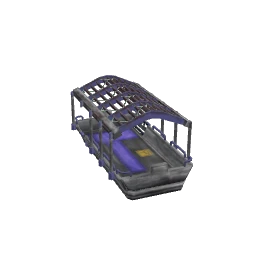
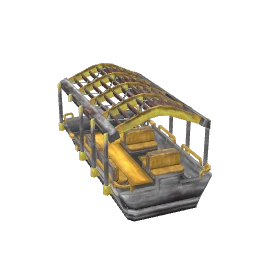
feat: pictures for teleporter pads, sconce lamps, power outlets and more trams and crates
Teleporter pads and sconce lamps now show a picture of what they look like.
Power outlets on things you built (plug strips, plugboards, batteries and the like) now show the device they belong to.
Each tram now has its own picture in its own colours, and the round car no longer stands in for the others.
Resource nodes the game places while you play, like the wood crates in the reactors and the essence pickups, now have pictures too.

Changed region(s): [[0.2188, 0.2188, 0.8438, 0.875]]

diff --git a/src/AbioticEditor.Web.Shared/Services/WorldThumbnails.Index.g.cs b/src/AbioticEditor.Web.Shared/Services/WorldThumbnails.Index.g.cs
@@ -7,11 +7,13 @@ public static partial class WorldThumbnails
     {
         ["buttons"] = new(StringComparer.Ordinal) { "Button_Generic_C", "Button_Keypad_C", "Button_Keypad_Tier1_C", "Button_Keypad_VOTV_C", "Button_Keypad_VOTV_Terminal_C", "Button_LightSwitch_C" },
         ["containers"] = new(StringComparer.Ordinal) { "Abiotic_PlayerCorpse_C", "Container_Aquarium_Large_C", "Container_KitchenCabinet_C", "Container_KitchenCounter_C", "Container_Locker_C", "Container_Locker_Security_C", "Container_Locker_VOTV_C", "Container_LootSpillBag_C", "Container_VOTV_Kitchen_Bedroom_Cabinet_Left_C", "Container_VOTV_TrashBinGreen_C", "Deployable_FishingTrap_T1_C", "Deployed_Armor_Stand_C", "Deployed_Armor_Stand_WoodF_C", "Deployed_AutoSalvager_C", "Deployed_Beehive_C", "Deployed_Bench_AmmoStation_C", "Deployed_Bench_CookingStation_C", "Deployed_ChemistryBench_C", "Deployed_Container_ArmoryLocker_C", "Deployed_Container_Chest_Vintage_C", "Deployed_Container_FilingCabinet_Huge_C", "Deployed_Container_FilingCabinet_Large_C", "Deployed_Container_FilingCabinet_Medium_C", "Deployed_Container_FilingCabinet_Small_C", "Deployed_Container_Medkit_C", "Deployed_Container_Stocking_C", "Deployed_Container_Toolbox_C", "Deployed_Container_Toolbox_Plant_C", "Deployed_Container_TrashCan_C", "Deployed_Container_TrashCan_Small_C", "Deployed_Container_WishingShelfStocking_C", "Deployed_CraftedChargingStation_C", "Deployed_CraftingBench_Default_C", "Deployed_CraftingBench_Repair_C", "Deployed_CraftingBench_Upgrade_C", "Deployed_Crate_HGatekeeper_C", "Deployed_Crate_HMusicBox_C", "Deployed_Crate_HOrnate_C", "Deployed_Crate_HSecurity_C", "Deployed_CubicleShelf_C", "Deployed_Desk_Fancy_01_C", "Deployed_DistillationBench_C", "Deployed_Freezer_C", "Deployed_Furniture_Cabinet_Fancy_01_C", "Deployed_Furniture_Cabinet_Vintage_C", "Deployed_Furniture_Desk_Executive_01_C", "Deployed_Furniture_Desk_Lab_01_C", "Deployed_Furniture_Desk_Lab_02_C", "Deployed_Furniture_Desk_Office_02_C", "Deployed_HazardCrate_C", "Deployed_ItemStand_ParentBP_C", "Deployed_ItemStand_WallMount_C", "Deployed_PestTrap_C", "Deployed_PetBed_Luxury_C", "Deployed_Refrigerator_C", "Deployed_StorageCrate_Charging_C", "Deployed_StorageCrate_Makeshift_C", "Deployed_StorageCrate_Makeshift_T2_C", "Deployed_StorageCrate_Makeshift_T3_C", "Deployed_StorageCrate_Makeshift_T4_C", "Deployed_StorageCrate_Void_C", "Deployed_Toilet_Makeshift_C", "Deployed_VOTV_BedsideTable_Brown_C", "Deployed_VOTV_Dresser_C", "Deployed_VOTV_MiniFridge_C", "Deployed_WishingShelf_C", "GATE_ChargingStation_C", "GardenPlot_Large_C", "Stove_Deployable_2Spots_C", "Stove_Deployable_Oven_C", "Stove_Industrial_8Spots_C", "Stove_Oven_VOTV_Microwave_C", "Trader_LabDispenser_C" },
+        ["deployables"] = new(StringComparer.Ordinal) { "Deployed_Battery_T1_C", "Deployed_Battery_T2_C", "Deployed_Battery_T3_C", "Deployed_CableReroute_C", "Deployed_ExerciseBike_C", "Deployed_Lamp_Sconce_C", "Deployed_Lamp_Sconce_XMAS_C", "Deployed_LaserPowerConverter_C", "Deployed_PlugStrip_C", "Deployed_Plugboard_C", "Deployed_TeleporterPad_C" },
         ["destructibles"] = new(StringComparer.Ordinal) { "Destructible_BookCartStack_C", "Destructible_CafeteriaDoor_C", "Destructible_CeilingTile_C", "Destructible_ContainmentShield_C", "Destructible_Fracture_MageEye_C", "Destructible_SecurityContainerDoor_C", "Destructible_SyncrotronHole_C", "Webbing_BP_C", "XRayField_BP_C" },
         ["doors"] = new(StringComparer.Ordinal) { "BlastDoor_C", "BlastDoor_ORD_Large_C", "BlastDoor_ORD_Small_C", "BlastDoor_OfferingBox_C", "Hatch_PickupTailgate_BP_C", "SecurityDoor_Animated_C", "SecurityDoor_C", "SecurityDoor_Shutters_C", "SecurityDoor_Small_C", "SimpleDoor_Bathroom_C", "SimpleDoor_ParentBP_C", "SimpleHatch_BP_C", "SlidingCellDoor_BP_C", "SlidingDoor_BP_C", "SlidingDoor_VOTV_ASO_C", "SlidingStorageDoor_BP_C", "SlidingWindow_Vertical_BP_C", "TramStationDoor_C", "VacDoor_BP_C" },
         ["elevators"] = new(StringComparer.Ordinal) { "Elevator_Office_BP_C", "Elevator_ParentBP_C" },
         ["power-sockets"] = new(StringComparer.Ordinal) { "PowerSocket_MgtCore_C", "PowerSocket_ORDER_C", "PowerSocket_ParentBP_C", "PowerSocket_VWinter_C" },
-        ["resource-nodes"] = new(StringComparer.Ordinal) { "Destructible_Vent_C", "ResourceNode_AlienBeehive_C", "ResourceNode_AnalysisMachine_C", "ResourceNode_AnalysisMachine_Gem_C", "ResourceNode_AnalysisMachine_Greyeb_C", "ResourceNode_AnalysisMachine_Transcendium_C", "ResourceNode_Barrel_C", "ResourceNode_BatteryCharger_C", "ResourceNode_CementPallet_C", "ResourceNode_DesktopMonitor_C", "ResourceNode_DesktopPC_C", "ResourceNode_DesktopPC_Note_C", "ResourceNode_GenericCrate_C", "ResourceNode_GlassPane_C", "ResourceNode_GlassPane_Cinematic_C", "ResourceNode_GymEquipment_Barbell_C", "ResourceNode_GymEquipment_Bench_C", "ResourceNode_GymEquipment_Bike_C", "ResourceNode_GymEquipment_Dumbbell_C", "ResourceNode_HighTechMonitor_C", "ResourceNode_HydroPipes_C", "ResourceNode_Hydropanel_C", "ResourceNode_MetalVent_C", "ResourceNode_MilitaryRadio_C", "ResourceNode_MineCrate_C", "ResourceNode_OfficePhotocopier_C", "ResourceNode_OfficePrinter_C", "ResourceNode_Pipes_C", "ResourceNode_ReceptorHousing_C", "ResourceNode_SpaceLettuce_C", "ResourceNode_Transformer_C", "ResourceNode_Turbine_C", "ResourceNode_WoodCrate_C", "ResourceNode_WoodCrate_Defense_C", "ResourceNode_WoodCrate_MF_C", "ResourceNode_WoodCrate_Manufacturing_C", "ResourceNode_WoodCrate_Office_C", "ResourceNode_WoodCrate_OrderAmmo_C", "ResourceNode_WoodCrate_Security_C", "ResourceNode_WoodenPallet_C", "Resource_HazmatSuit_C", "Resource_MicroNode_Acid_C", "Resource_MicroNode_Ammo_308_C", "Resource_MicroNode_Ammo_556_C", "Resource_MicroNode_Ammo_9mm_C", "Resource_MicroNode_Ammo_Magnum_C", "Resource_MicroNode_Ammo_Shotgun_C", "Resource_MicroNode_AntiGravCube_C", "Resource_MicroNode_Anvil_C", "Resource_MicroNode_Apple_C", "Resource_MicroNode_AxleGrease_C", "Resource_MicroNode_Baton_C", "Resource_MicroNode_Beaker_C", "Resource_MicroNode_Binders_C", "Resource_MicroNode_BlacksmithingGloves_C", "Resource_MicroNode_Bleach_C", "Resource_MicroNode_BookStack1_C", "Resource_MicroNode_BoxOfScrews_C", "Resource_MicroNode_Briefcase_C", "Resource_MicroNode_Bucket_Metal_C", "Resource_MicroNode_Bucket_Plastic_C", "Resource_MicroNode_Calculator_C", "Resource_MicroNode_CanOfFood_C", "Resource_MicroNode_CementBag_C", "Resource_MicroNode_Chains_C", "Resource_MicroNode_ChefHat_C", "Resource_MicroNode_ClothscrapAprons_C", "Resource_MicroNode_ContGloves_C", "Resource_MicroNode_CookingPot_C", "Resource_MicroNode_Crowbar_C", "Resource_MicroNode_DeskLeg_C", "Resource_MicroNode_DeskPhone_C", "Resource_MicroNode_DoubleBarrelShotgun_C", "Resource_MicroNode_DuctTape_C", "Resource_MicroNode_Enethiol_C", "Resource_MicroNode_FireExtinguisher_C", "Resource_MicroNode_Flashlight_C", "Resource_MicroNode_FloppyHat_C", "Resource_MicroNode_FryingPan_C", "Resource_MicroNode_GasMask_C", "Resource_MicroNode_GeigerCounter_C", "Resource_MicroNode_GigaGlue_C", "Resource_MicroNode_Hammer_C", "Resource_MicroNode_HardHat_C", "Resource_MicroNode_HighVisVest_C", "Resource_MicroNode_Hose_C", "Resource_MicroNode_HydroplantHelm_C", "Resource_MicroNode_IS_0003_C", "Resource_MicroNode_IS_0010_C", "Resource_MicroNode_IceCream_C", "Resource_MicroNode_IodineTablets_C", "Resource_MicroNode_JesterHat_C", "Resource_MicroNode_KarateHelmet_C", "Resource_MicroNode_Keyboard_C", "Resource_MicroNode_Knife_C", "Resource_MicroNode_Labcoat_C", "Resource_MicroNode_LeadVest_C", "Resource_MicroNode_LeadVest_T2_C", "Resource_MicroNode_MRE_C", "Resource_MicroNode_MagazineStack_C", "Resource_MicroNode_Money_C", "Resource_MicroNode_Nachos_C", "Resource_MicroNode_Oil_C", "Resource_MicroNode_PaperStack_C", "Resource_MicroNode_PenHolder_C", "Resource_MicroNode_PetRock_C", "Resource_MicroNode_PhoneBook_C", "Resource_MicroNode_PhotonReceptor_C", "Resource_MicroNode_Pickaxe_C", "Resource_MicroNode_PipeWrench_C", "Resource_MicroNode_PlutonicBlood_C", "Resource_MicroNode_Porkchop_C", "Resource_MicroNode_PowerCell_C", "Resource_MicroNode_Rebar_C", "Resource_MicroNode_RubberBands_C", "Resource_MicroNode_Salt_C", "Resource_MicroNode_Screwdriver_C", "Resource_MicroNode_SecurityArms_C", "Resource_MicroNode_SecurityBackpack_C", "Resource_MicroNode_SecurityCap_C", "Resource_MicroNode_SecurityPistol_C", "Resource_MicroNode_SecurityVest_C", "Resource_MicroNode_SeedsTomato_C", "Resource_MicroNode_Silverware_C", "Resource_MicroNode_Skull_C", "Resource_MicroNode_Sledgehammer_C", "Resource_MicroNode_SmallBackpack_C", "Resource_MicroNode_SoilBag_C", "Resource_MicroNode_SoldierBackpack_C", "Resource_MicroNode_Stapler_C", "Resource_MicroNode_SteelCable_C", "Resource_MicroNode_SydJournal2_C", "Resource_MicroNode_Tray_C", "Resource_MicroNode_VOTV_ChineseTakeaway_C", "Resource_MicroNode_VOTV_Hamburger_C", "Resource_MicroNode_WearableApron_C", "Resource_MicroNode_WeldingMask_C", "Resource_Micronode_AlienWheat_C", "Resource_Micronode_Antelight_Blue_C", "Resource_Micronode_Mgt_GlowTulip_C", "Resource_Micronode_Rice_C", "Resource_Micronode_Seaweed_C", "Resource_Micronode_VelcroSeeds_C" },
+        ["resource-nodes"] = new(StringComparer.Ordinal) { "Destructible_Vent_C", "Pickup_VWinter_Warmth_C", "ResourceNode_AlienBeehive_C", "ResourceNode_AnalysisMachine_C", "ResourceNode_AnalysisMachine_Gem_C", "ResourceNode_AnalysisMachine_Greyeb_C", "ResourceNode_AnalysisMachine_Transcendium_C", "ResourceNode_Barrel_C", "ResourceNode_BatteryCharger_C", "ResourceNode_CementPallet_C", "ResourceNode_DesktopMonitor_C", "ResourceNode_DesktopPC_C", "ResourceNode_DesktopPC_Note_C", "ResourceNode_GenericCrate_C", "ResourceNode_GlassPane_C", "ResourceNode_GlassPane_Cinematic_C", "ResourceNode_GymEquipment_Barbell_C", "ResourceNode_GymEquipment_Bench_C", "ResourceNode_GymEquipment_Bike_C", "ResourceNode_GymEquipment_Dumbbell_C", "ResourceNode_HighTechMonitor_C", "ResourceNode_HydroPipes_C", "ResourceNode_Hydropanel_C", "ResourceNode_MetalVent_C", "ResourceNode_MilitaryRadio_C", "ResourceNode_MineCrate_C", "ResourceNode_OfficePhotocopier_C", "ResourceNode_OfficePrinter_C", "ResourceNode_Pipes_C", "ResourceNode_ReceptorHousing_C", "ResourceNode_SpaceLettuce_C", "ResourceNode_Transcendium_C", "ResourceNode_Transformer_C", "ResourceNode_Turbine_C", "ResourceNode_WoodCrate_C", "ResourceNode_WoodCrate_Defense_C", "ResourceNode_WoodCrate_MF_C", "ResourceNode_WoodCrate_Manufacturing_C", "ResourceNode_WoodCrate_Office_C", "ResourceNode_WoodCrate_OrderAmmo_C", "ResourceNode_WoodCrate_Reactors_C", "ResourceNode_WoodCrate_Security_C", "ResourceNode_WoodenPallet_C", "Resource_HastaTriaBoots_C", "Resource_HazmatSuit_C", "Resource_MicroNode_Acid_C", "Resource_MicroNode_Ammo_308_C", "Resource_MicroNode_Ammo_556_C", "Resource_MicroNode_Ammo_9mm_C", "Resource_MicroNode_Ammo_Magnum_C", "Resource_MicroNode_Ammo_Shotgun_C", "Resource_MicroNode_AntiGravCube_C", "Resource_MicroNode_Anvil_C", "Resource_MicroNode_Apple_C", "Resource_MicroNode_AxleGrease_C", "Resource_MicroNode_Baton_C", "Resource_MicroNode_Beaker_C", "Resource_MicroNode_Binders_C", "Resource_MicroNode_BlacksmithingGloves_C", "Resource_MicroNode_Bleach_C", "Resource_MicroNode_BookStack1_C", "Resource_MicroNode_BoxOfScrews_C", "Resource_MicroNode_Briefcase_C", "Resource_MicroNode_Bucket_Metal_C", "Resource_MicroNode_Bucket_Plastic_C", "Resource_MicroNode_Calculator_C", "Resource_MicroNode_CanOfFood_C", "Resource_MicroNode_CementBag_C", "Resource_MicroNode_Chains_C", "Resource_MicroNode_ChefHat_C", "Resource_MicroNode_ClothscrapAprons_C", "Resource_MicroNode_ContGloves_C", "Resource_MicroNode_CookingPot_C", "Resource_MicroNode_Crowbar_C", "Resource_MicroNode_DeskLeg_C", "Resource_MicroNode_DeskPhone_C", "Resource_MicroNode_DoubleBarrelShotgun_C", "Resource_MicroNode_DuctTape_C", "Resource_MicroNode_Enethiol_C", "Resource_MicroNode_FireExtinguisher_C", "Resource_MicroNode_Flashlight_C", "Resource_MicroNode_FloppyHat_C", "Resource_MicroNode_FryingPan_C", "Resource_MicroNode_GasMask_C", "Resource_MicroNode_GeigerCounter_C", "Resource_MicroNode_GigaGlue_C", "Resource_MicroNode_Hammer_C", "Resource_MicroNode_HardHat_C", "Resource_MicroNode_HighVisVest_C", "Resource_MicroNode_Hose_C", "Resource_MicroNode_HydroplantHelm_C", "Resource_MicroNode_IS_0003_C", "Resource_MicroNode_IS_0010_C", "Resource_MicroNode_IceCream_C", "Resource_MicroNode_IodineTablets_C", "Resource_MicroNode_JesterHat_C", "Resource_MicroNode_KarateHelmet_C", "Resource_MicroNode_Keyboard_C", "Resource_MicroNode_Knife_C", "Resource_MicroNode_Labcoat_C", "Resource_MicroNode_LeadVest_C", "Resource_MicroNode_LeadVest_T2_C", "Resource_MicroNode_Lodestone_C", "Resource_MicroNode_MRE_C", "Resource_MicroNode_MagazineStack_C", "Resource_MicroNode_Money_C", "Resource_MicroNode_Nachos_C", "Resource_MicroNode_Oil_C", "Resource_MicroNode_PaperStack_C", "Resource_MicroNode_PenHolder_C", "Resource_MicroNode_PetRock_C", "Resource_MicroNode_PhoneBook_C", "Resource_MicroNode_PhotonReceptor_C", "Resource_MicroNode_Pickaxe_C", "Resource_MicroNode_PipeWrench_C", "Resource_MicroNode_PlutonicBlood_C", "Resource_MicroNode_Porkchop_C", "Resource_MicroNode_PowerCell_C", "Resource_MicroNode_Rebar_C", "Resource_MicroNode_ResGrowth_C", "Resource_MicroNode_RubberBands_C", "Resource_MicroNode_Salt_C", "Resource_MicroNode_Screwdriver_C", "Resource_MicroNode_SecurityArms_C", "Resource_MicroNode_SecurityBackpack_C", "Resource_MicroNode_SecurityCap_C", "Resource_MicroNode_SecurityPistol_C", "Resource_MicroNode_SecurityVest_C", "Resource_MicroNode_SeedsTomato_C", "Resource_MicroNode_Silverware_C", "Resource_MicroNode_Skull_C", "Resource_MicroNode_Sledgehammer_C", "Resource_MicroNode_SmallBackpack_C", "Resource_MicroNode_SoilBag_C", "Resource_MicroNode_SoldierBackpack_C", "Resource_MicroNode_Stapler_C", "Resource_MicroNode_SteelCable_C", "Resource_MicroNode_SydJournal2_C", "Resource_MicroNode_Tray_C", "Resource_MicroNode_VOTV_ChineseTakeaway_C", "Resource_MicroNode_VOTV_Hamburger_C", "Resource_MicroNode_WearableApron_C", "Resource_MicroNode_WeldingMask_C", "Resource_Micronode_AlienWheat_C", "Resource_Micronode_Antelight_Blue_C", "Resource_Micronode_KrasueEssence_C", "Resource_Micronode_KrasueEssence_TWO_C", "Resource_Micronode_LeyakEssence_C", "Resource_Micronode_LeyakEssence_TWO_C", "Resource_Micronode_Mgt_GlowTulip_C", "Resource_Micronode_ReaperEssence_C", "Resource_Micronode_Rice_C", "Resource_Micronode_Seaweed_C", "Resource_Micronode_VelcroSeeds_C", "TUTORIAL_CRATE_C" },
         ["trams"] = new(StringComparer.Ordinal) { "Tram_Default_C", "Tram_ParentBP_C" },
+        ["trams-each"] = new(StringComparer.Ordinal) { "Tram_Default_C_1", "Tram_Default_C_2", "Tram_Default_C_3", "Tram_Default_C_4", "Tram_Default_C_5", "Tram_Default_C_6", "Tram_Default_C_7", "Tram_ParentBP_C_0", "Tram_ParentBP_C_1", "Tram_ParentBP_C_2" },
     };
 }

diff --git a/tests/AbioticEditor.Probes/ThumbnailTargetsProbe.cs b/tests/AbioticEditor.Probes/ThumbnailTargetsProbe.cs
@@ -1,5 +1,6 @@
 using System.IO;
 using System.Text.Json;
+using System.Text.Json.Nodes;
 using System.Text.RegularExpressions;
 using AbioticEditor.Core.WorldSaves;
 using AbioticEditor.Core.WorldSaves.Features;
@@ -24,12 +25,58 @@ public sealed partial class ThumbnailTargetsProbe
     [GeneratedRegex(@"^(?<cls>.+_C)_\d+$")]
     private static partial Regex InstanceSuffix();
 
+    /// <summary>Mirrors WorldThumbnails.PowerOutletOwner in the editor (this probe does not reference the web project).</summary>
+    private static class WorldThumbnailKeys
+    {
+        public static string? PowerOutletOwner(string key)
+            => key.Length == 33 && key[..32].All(Uri.IsHexDigit) && char.IsDigit(key[32]) ? key[..32] : null;
+    }
+
     /// <summary>The kind of an actor, from its instance name: <c>BlastDoor_C_11</c> is a <c>BlastDoor_C</c>.</summary>
     public static string ClassOf(string actorPath)
     {
         var name = actorPath[(Math.Max(actorPath.LastIndexOf('.'), actorPath.LastIndexOf(':')) + 1)..];
         var match = InstanceSuffix().Match(name);
         return match.Success ? match.Groups["cls"].Value : name;
+    }
+
+    /// <summary>
+    /// Adds each kind's blueprint path (read from the installed game, when there is one) so render.mjs
+    /// can draw a kind from its own model when its level actor cannot be found or drawn: resource
+    /// nodes spawned into the level at run time (wood crates in the reactors, essences) have no fixed
+    /// place in the map to draw them at.
+    /// </summary>
+    private static IEnumerable<object> WithClassPaths(IEnumerable<object> targets)
+    {
+        Dictionary<string, string>? packages = null;
+        try
+        {
+            using var provider = AbioticEditor.Core.Assets.GameAssetProvider.CreateForLocalInstall();
+            if (provider is not null)
+            {
+                packages = new(StringComparer.OrdinalIgnoreCase);
+                const string content = "AbioticFactor/Content/";
+                foreach (var file in provider.AssetPaths)
+                {
+                    if (!file.StartsWith(content, StringComparison.OrdinalIgnoreCase) || !file.EndsWith(".uasset", StringComparison.OrdinalIgnoreCase)) continue;
+                    var package = "/Game/" + file[content.Length..^".uasset".Length];
+                    packages.TryAdd(package[(package.LastIndexOf('/') + 1)..], package);
+                }
+            }
+        }
+        catch (Exception) { packages = null; }
+        foreach (var target in targets)
+        {
+            var json = JsonSerializer.SerializeToNode(target)!.AsObject();
+            var cls = json["cls"]!.GetValue<string>();
+            if (packages is not null && cls.EndsWith("_C", StringComparison.Ordinal) && packages.TryGetValue(cls[..^2], out var package))
+            {
+                json["classPath"] = $"{package}.{cls}";
+                // A tram kind's picture is its own model, unpainted: the trams in the level each look different.
+                if (json["kind"]!.GetValue<string>() == "trams") json.Remove("actor");
+            }
+            yield return json;
+        }
     }
 
     [Fact]
@@ -57,6 +104,12 @@ public sealed partial class ThumbnailTargetsProbe
                 // A plain mesh placed in the level has no kind of its own to picture (but has a place).
                 if (key.Item2.StartsWith("StaticMeshActor", StringComparison.Ordinal)) { instances.Add(new { kind, cls = key.Item2, region, actor = actorPath }); return; }
                 targets.TryAdd(key, new { kind, cls = key.Item2, region, actor = actorPath });
+                // Each tram is painted its own colour (and one is a round car), so each gets its own picture.
+                if (kind == "trams")
+                {
+                    var name = actorPath[(Math.Max(actorPath.LastIndexOf('.'), actorPath.LastIndexOf(':')) + 1)..];
+                    targets.TryAdd(("trams-each", name), new { kind = "trams-each", cls = name, region, actor = actorPath });
+                }
                 instances.Add(new { kind, cls = key.Item2, region, actor = actorPath });
             }
             foreach (var door in data.Doors) Add("doors", door.Id);
@@ -70,8 +123,21 @@ public sealed partial class ThumbnailTargetsProbe
                     classes.TryAdd(cls, new { kind = "containers", cls, classPath });
             foreach (var (map, kind) in Lists)
                 foreach (var entry in WorldMapAccessor.Entries(data.Raw, map)) Add(kind, entry.Key);
+            // Lists of player-placed things (teleporter pads, sconce lamps, garden plots...) show the
+            // placed object's own class picture, and so does a power outlet on a player-built device
+            // (its key is the device's id plus one outlet digit).
+            void AddPlaced(string? id)
+            {
+                if (id is null || !classPaths.TryGetValue(id, out var classPath)) return;
+                if (PlacedObjectCensus.ClassNameOf(classPath) is { Length: > 0 } cls)
+                    classes.TryAdd(cls, new { kind = "deployables", cls, classPath });
+            }
+            foreach (var feature in WorldMapFeatures.All.Where(f => f.MapName == "DeployedObjectMap" && f.AppliesTo(data.Raw)))
+                foreach (var entry in feature.Read(data.Raw)) AddPlaced(entry.Key);
+            foreach (var entry in WorldMapAccessor.Entries(data.Raw, "PowerSocketMap"))
+                if (WorldThumbnailKeys.PowerOutletOwner(entry.Key) is { } owner) AddPlaced(owner);
         }
-        File.WriteAllText(output, JsonSerializer.Serialize(targets.Values, new JsonSerializerOptions { WriteIndented = true }));
+        File.WriteAllText(output, JsonSerializer.Serialize(WithClassPaths(targets.Values), new JsonSerializerOptions { WriteIndented = true }));
         if (Environment.GetEnvironmentVariable("THUMBNAIL_CLASSES_OUT") is { Length: > 0 } classesOut)
             File.WriteAllText(classesOut, JsonSerializer.Serialize(classes.Values, new JsonSerializerOptions { WriteIndented = true }));
         if (Environment.GetEnvironmentVariable("THUMBNAIL_INSTANCES_OUT") is { Length: > 0 } instancesOut)

diff --git a/tests/AbioticEditor.Tests/WorldPictureTests.cs b/tests/AbioticEditor.Tests/WorldPictureTests.cs
@@ -1,0 +1,78 @@
+using AbioticEditor.Web.Services;
+
+namespace AbioticEditor.Tests;
+
+/// <summary>
+/// The pictures the world lists ship with for things the kind-per-class pictures used to miss:
+/// resource nodes the game spawns at run time, each tram on its own, player-placed things
+/// (teleporter pads, sconce lamps) and the player-built devices power outlets belong to.
+/// </summary>
+public sealed class WorldPictureTests
+{
+    private const string Root = "_content/AbioticEditor.Web.Shared/thumbs";
+
+    [Fact]
+    public void Resource_nodes_spawned_at_run_time_have_pictures()
+    {
+        Assert.Equal($"{Root}/resource-nodes/ResourceNode_WoodCrate_Reactors_C.webp",
+            WorldThumbnails.For("resource-nodes", "/Game/Maps/Facility.Facility:PersistentLevel.ResourceNode_WoodCrate_Reactors_C_2147001528"));
+        Assert.NotNull(WorldThumbnails.For("resource-nodes", "/Game/Maps/Facility.Facility:PersistentLevel.Resource_Micronode_KrasueEssence_C_2147177321"));
+    }
+
+    [Fact]
+    public void Each_tram_shows_its_own_picture_and_others_fall_back_to_the_model()
+    {
+        Assert.Equal($"{Root}/trams-each/Tram_ParentBP_C_1.webp",
+            WorldThumbnails.For("trams", "/Game/Maps/Facility.Facility:PersistentLevel.Tram_ParentBP_C_1"));
+        Assert.Equal($"{Root}/trams-each/Tram_Default_C_3.webp",
+            WorldThumbnails.For("trams", "/Game/Maps/Facility.Facility:PersistentLevel.Tram_Default_C_3"));
+        Assert.Equal($"{Root}/trams/Tram_Default_C.webp",
+            WorldThumbnails.For("trams", "/Game/Maps/Facility.Facility:PersistentLevel.Tram_Default_C_99"));
+    }
+
+    [Fact]
+    public void Placed_things_show_their_own_picture()
+    {
+        Assert.Equal($"{Root}/deployables/Deployed_TeleporterPad_C.webp", WorldThumbnails.ForPlaced("Deployed_TeleporterPad_C"));
+        Assert.Equal($"{Root}/deployables/Deployed_Lamp_Sconce_C.webp",
+            WorldThumbnails.ForPlaced("/Game/Blueprints/DeployedObjects/Misc/Deployed_Lamp_Sconce.Deployed_Lamp_Sconce_C"));
+        // Containers keep their own folder.
+        Assert.Equal($"{Root}/containers/Container_Locker_C.webp", WorldThumbnails.ForPlaced("Container_Locker_C"));
+        Assert.Null(WorldThumbnails.ForPlaced("Deployed_NoSuchThing_C"));
+        Assert.Null(WorldThumbnails.ForPlaced(null));
+    }
+
+    [Fact]
+    public void Power_outlets_on_built_devices_show_the_device()
+    {
+        const string device = "0123456789ABCDEF0123456789abcdef";
+        Assert.Equal(device, WorldThumbnails.PowerOutletOwner(device + "2"));
+        Assert.Null(WorldThumbnails.PowerOutletOwner(device));
+        Assert.Null(WorldThumbnails.PowerOutletOwner("/Game/Maps/X.X:PersistentLevel.PowerSocket_ParentBP_C_4"));
+        Assert.Null(WorldThumbnails.PowerOutletOwner(null));
+        foreach (var cls in new[] { "Deployed_PlugStrip_C", "Deployed_Plugboard_C", "Deployed_Battery_T1_C", "Deployed_Battery_T2_C", "Deployed_Battery_T3_C" })
+            Assert.NotNull(WorldThumbnails.ForPlaced(cls));
+
+        // Wall sockets in the level keep their kind picture and their place shot.
+        Assert.NotNull(WorldThumbnails.For("power-sockets", "/Game/Maps/X.X:PersistentLevel.PowerSocket_ParentBP_C_4"));
+    }
+
+    [Fact]
+    public void Every_new_picture_is_really_shipped()
+    {
+        var root = UiSource.Resolve("wwwroot", "thumbs");
+        foreach (var kind in new[] { "deployables", "trams-each" })
+        {
+            var dir = Path.Combine(root, kind);
+            Assert.True(Directory.Exists(dir), $"{kind} pictures are checked in");
+            foreach (var file in Directory.GetFiles(dir, "*.webp"))
+            {
+                var name = Path.GetFileNameWithoutExtension(file);
+                var url = kind == "deployables"
+                    ? WorldThumbnails.ForPlaced(name)
+                    : WorldThumbnails.For("trams", $"/Game/Maps/Facility.Facility:PersistentLevel.{name}");
+                Assert.Equal($"{Root}/{kind}/{name}.webp", url);
+            }
+        }
+    }
+}

diff --git a/src/AbioticEditor.Web.Shared/Services/WorldThumbnails.cs b/src/AbioticEditor.Web.Shared/Services/WorldThumbnails.cs
@@ -3,8 +3,8 @@ using System.Text.RegularExpressions;
 namespace AbioticEditor.Web.Services;
 
 /// <summary>
-/// Pictures of the game's doors, buttons, breakable walls, elevators, trams, teleporters and resource
-/// nodes, rendered from the game's own models by tools/thumbnails and shipped with the editor
+/// Pictures of the game's doors, buttons, breakable walls, elevators, trams, teleporters, resource
+/// nodes, power sockets and player-placed objects, rendered from the game's own models by tools/thumbnails and shipped with the editor
 /// (wwwroot/thumbs/&lt;kind&gt;/&lt;class&gt;.webp). One picture per kind: every <c>BlastDoor_C_*</c> shows
 /// the <c>BlastDoor_C</c> picture. <see cref="Available"/> (generated next to the pictures) says which
 /// exist, so a list never asks for one that is not there.
@@ -31,9 +31,38 @@ public static partial class WorldThumbnails
     /// </summary>
     public static string? For(string kind, string? actorPath)
     {
-        if (string.IsNullOrEmpty(actorPath) || !Available.TryGetValue(kind, out var classes)) return null;
+        if (string.IsNullOrEmpty(actorPath)) return null;
+        // A level actor drawn on its own (the trams, each painted its own colour) wins over its kind's
+        // picture: those live in "<kind>-each", named after the actor.
+        var name = actorPath[(Math.Max(actorPath.LastIndexOf('.'), actorPath.LastIndexOf(':')) + 1)..];
+        if (Available.TryGetValue(kind + "-each", out var each) && each.Contains(name)) return $"{Root}/{kind}-each/{name}.webp";
+        if (!Available.TryGetValue(kind, out var classes)) return null;
         var cls = ClassOf(actorPath);
         return classes.Contains(cls) ? $"{Root}/{kind}/{cls}.webp" : null;
+    }
+
+    /// <summary>
+    /// The picture of a player-placed object's class (a teleporter pad, a sconce lamp, a plug strip, a
+    /// battery, a locker), from its own model, or null when none was rendered. Accepts the class name
+    /// (<c>Deployed_PlugStrip_C</c>) or its full path.
+    /// </summary>
+    public static string? ForPlaced(string? className)
+    {
+        if (string.IsNullOrEmpty(className)) return null;
+        var cls = className[(className.LastIndexOf('.') + 1)..];
+        return For("deployables", cls) ?? For("containers", cls);
+    }
+
+    /// <summary>
+    /// The placed device a power outlet belongs to: an outlet on a player-built device (a plug strip,
+    /// a battery) is keyed by the device's 32-digit id plus one outlet digit. Null for anything else
+    /// (a wall socket in the level is keyed by its actor path).
+    /// </summary>
+    public static string? PowerOutletOwner(string? key)
+    {
+        if (key is not { Length: 33 } || !char.IsAsciiDigit(key[32])) return null;
+        foreach (var c in key.AsSpan(0, 32)) if (!char.IsAsciiHexDigit(c)) return null;
+        return key[..32];
     }
 
     /// <summary>

diff --git a/src/AbioticEditor.Web.Shared/Services/WorldThumbnails.Places.g.cs b/src/AbioticEditor.Web.Shared/Services/WorldThumbnails.Places.g.cs
@@ -5396,6 +5396,7 @@ public static partial class WorldThumbnails
         "V_TheWall:BlastDoor_C_0",
         "V_TheWall:BlastDoor_C_1",
         "V_TheWall:Destructible_ContainmentShield_C_3",
+        "V_Train:SimpleDoor_ParentBP_C_12",
         "V_Train:SimpleDoor_ParentBP_C_18",
         "V_Winter:PowerSocket_VWinter_C_0",
     };

diff --git a/tools/thumbnails/README.md b/tools/thumbnails/README.md
@@ -1,7 +1,7 @@
 # World list pictures
 
-The Doors, Buttons, Breakable Objects, Elevators, Trams, World Teleporters, Resource Nodes and
-Containers lists show a picture of each kind of thing, drawn on its own with the game's own models. The pictures are
+The Doors, Buttons, Breakable Objects, Elevators, Trams, World Teleporters, Resource Nodes, Power
+Sockets, Teleporter Pads, Sconce lamps and Containers lists show a picture of each kind of thing, drawn on its own with the game's own models. The pictures are
 rendered once by a maintainer, checked in under `src/AbioticEditor.Web.Shared/wwwroot/thumbs`, and
 ship with the editor; nothing is rendered or downloaded while the editor runs. Re-render after a game
 update that changes these models, or to cover kinds from a world the list did not include.
@@ -30,6 +30,15 @@ update that changes these models, or to cover kinds from a world the list did no
 
    Containers are drawn from their own model instead: set `THUMBNAIL_CLASSES_OUT` too in step 1
    and render that file the same way (`node render.mjs http://127.0.0.1:37361 %TEMP%\container-classes.json 256`).
+   The same file lists the player-placed things other lists show (teleporter pads, sconce lamps) and
+   the player-built devices power outlets belong to (plug strips, batteries); those go to
+   `thumbs/deployables`.
+
+   When the installed game can be read, step 1 also gives each kind its blueprint (`classPath`). A
+   kind whose level actor is not in the map (resource nodes the game spawns at run time, like the
+   reactor wood crates) or draws nothing there is then drawn from its own model instead. Trams are
+   drawn one by one (`thumbs/trams-each/<actor>.webp`), since each is painted differently; the
+   `trams` picture is the unpainted model, used for any tram without its own.
 
    It writes `wwwroot/thumbs/<kind>/<class>.webp` and regenerates
    `src/AbioticEditor.Web.Shared/Services/WorldThumbnails.Index.g.cs`, which tells the editor which
